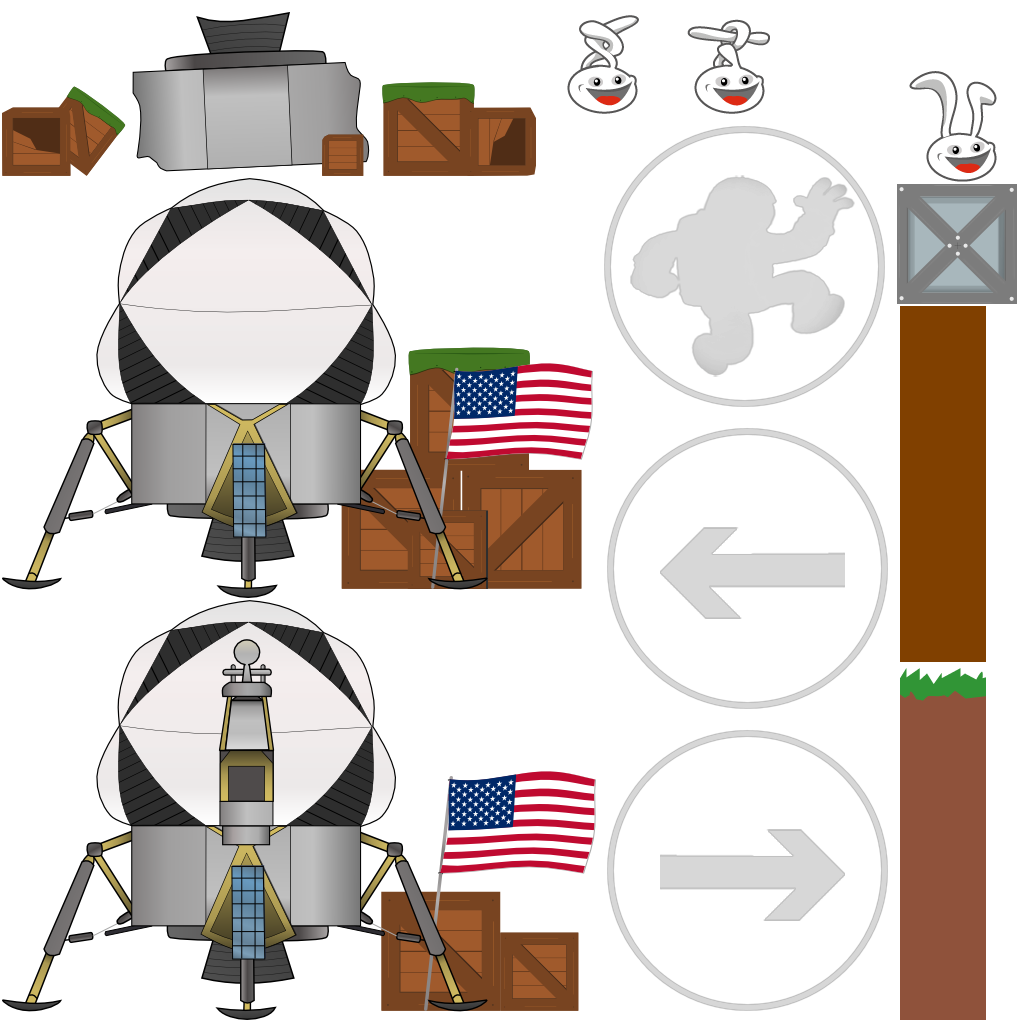
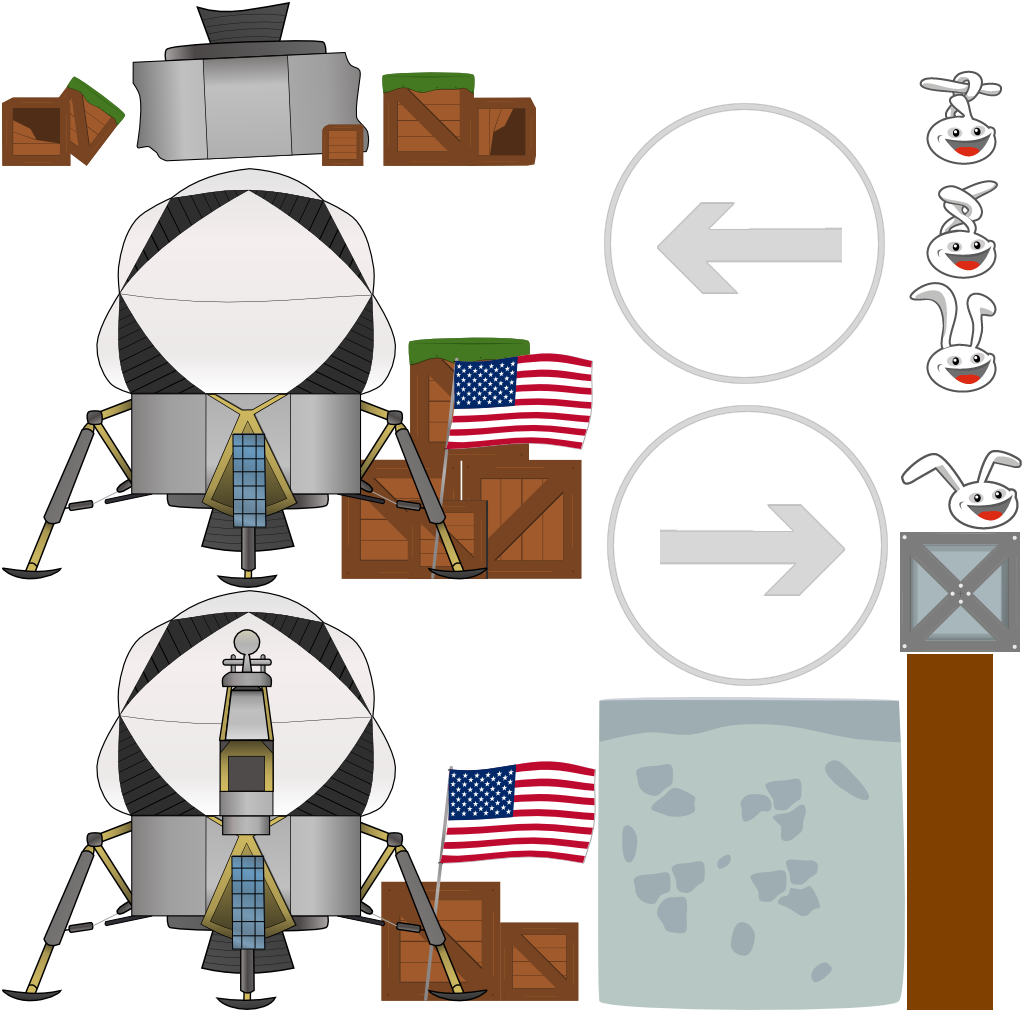
Limpieza de código e imágenes actualizadas (27/05/2014)

diff --git a/my-gdx-game-desktop/src/com/me/mygdxgame/Main.java b/my-gdx-game-desktop/src/com/me/mygdxgame/Main.java
@@ -6,7 +6,7 @@ import com.badlogic.gdx.tools.imagepacker.TexturePacker2;
 import com.badlogic.gdx.tools.imagepacker.TexturePacker2.Settings;
 
 public class Main {
-	private static boolean rebuildAtlas = false;
+	private static boolean rebuildAtlas = true;
 	private static boolean drawDebugOutline = false;
 
 	public static void main(String[] args) {
